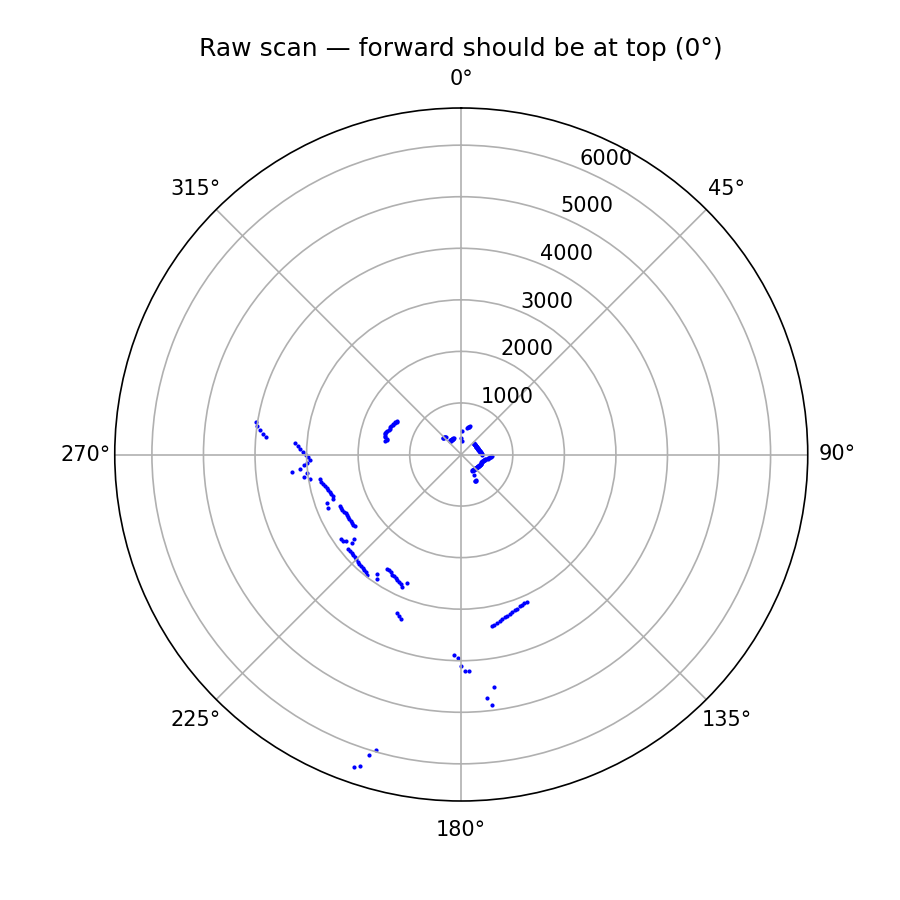
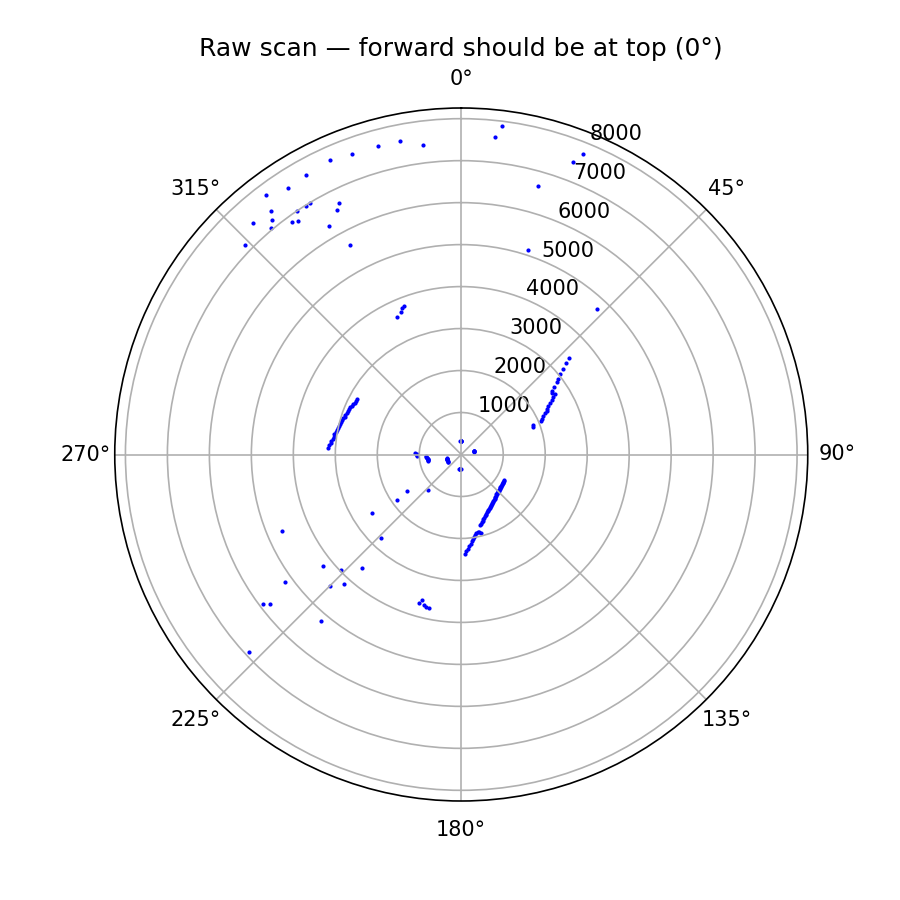
SLAM. done, testing

diff --git a/SLAM/code/slam_worker.py b/SLAM/code/slam_worker.py
@@ -1,5 +1,7 @@
 #!/usr/bin/env python3
 from __future__ import annotations
+import json
+import math
 import struct
 import threading
 from collections import deque
@@ -9,104 +11,104 @@ import numpy as np
 import paho.mqtt.client as mqtt
 from breezyslam.algorithms import RMHC_SLAM
 from breezyslam.sensors import Laser
-from config import MQTT_HOST, MQTT_PORT, TOPIC_LIDAR
+from config import (
+    MQTT_HOST, MQTT_PORT,
+    TOPIC_LIDAR, TOPIC_ENCODER,
+    REVERSE_SCAN,
+    WHEEL_DIAMETER_MM, WHEELBASE_MM, ENCODER_TICKS_PER_REV,
+)
+from slam_parser import parse_scan
 
 MAP_SIZE_PIXELS = 800
 MAP_SIZE_METERS = 20
 SCAN_SIZE       = 360
 SCAN_RATE_HZ    = 10
-MAX_RANGE_MM = 8000  
 
-# Tune these for your physical lidar mounting:
-ANGLE_OFFSET_DEG = 0     # rotate scan so index-0 = robot forward
-FLIP_SCAN        = True  # True if lidar sweeps CCW (YDLidar G2 does)
+# mm travelled per encoder tick (one side)
+_MM_PER_TICK = math.pi * WHEEL_DIAMETER_MM / ENCODER_TICKS_PER_REV
 
-MAGIC       = b"SCN3"
-HEADER_FMT  = "<4sIIH"
-HEADER_SIZE = struct.calcsize(HEADER_FMT)   # 14
-BINS_FMT    = "<360H"
-BINS_SIZE   = struct.calcsize(BINS_FMT)     # 720
-FRAME_SIZE  = HEADER_SIZE + BINS_SIZE       # 734
+# ---- shared state (MQTT thread → animation thread) ----
 
-NO_DETECTION_MM = 0  # single source of truth
-
-_lock = threading.Lock()
+_scan_lock = threading.Lock()
 _pending_scans: deque[tuple[int, int, list[int]]] = deque(maxlen=20)
+
+_enc_lock   = threading.Lock()
+_enc_latest: dict | None = None   # latest {"ts_ms", "left_ticks", "right_ticks"}
+
 _stats = {"received": 0, "bad": 0, "used": 0, "seq_last": -1}
 _debug_done = False
 
-def decode_frame(payload: bytes) -> tuple[int, int, list[int]] | None:
-    if len(payload) != FRAME_SIZE:
-        _stats["bad"] += 1
-        return None
-
-    magic, seq, ts_ms, valid_bins = struct.unpack_from(HEADER_FMT, payload, 0)
-    if magic != MAGIC:
-        _stats["bad"] += 1
-        return None
-
-    bins = list(struct.unpack_from(BINS_FMT, payload, HEADER_SIZE))
-
-    # Rotate so 0-index aligns with robot forward
-    if ANGLE_OFFSET_DEG:
-        bins = bins[ANGLE_OFFSET_DEG:] + bins[:ANGLE_OFFSET_DEG]
-
-    # Convert CCW → CW for BreezySLAM
-    if FLIP_SCAN:
-        bins = bins[::-1]
-
-    # Use 0 for no-return — NOT max range (0 = "no data" in BreezySLAM)
-    scan = [mm if 0 < mm <= MAX_RANGE_MM else NO_DETECTION_MM for mm in bins]
-
-    _stats["received"] += 1
-    _stats["seq_last"] = seq
-    return seq, ts_ms, scan
 
 def debug_polar_plot(scan: list[int]):
-    """Call this once to verify scan orientation before running SLAM."""
-
     angles = np.deg2rad(np.arange(360))
     ranges = np.array(scan, dtype=float)
-    # zero out no-data for cleaner plot
     ranges[ranges == 0] = np.nan
-
     fig, ax = plt.subplots(subplot_kw={"projection": "polar"}, figsize=(6, 6))
     ax.scatter(angles, ranges, s=1, c="blue")
-    ax.set_theta_zero_location("N")   # 0° = top = robot forward
-    ax.set_theta_direction(-1)         # clockwise
+    ax.set_theta_zero_location("N")
+    ax.set_theta_direction(-1)   # CW, matching G2 native direction
     ax.set_title("Raw scan — forward should be at top (0°)")
     plt.savefig("scan_debug.png", dpi=150)
     plt.close()
-    print("[debug] scan_debug.png written")
+    print("[debug] scan_debug.png written — check that forward is at the top")
 
 
 def on_connect(client, userdata, flags, reason_code, properties=None):
-    print(f"[mqtt] connected → subscribing to {TOPIC_LIDAR}")
-    client.subscribe(TOPIC_LIDAR, qos=0)
+    print(f"[mqtt] connected → {TOPIC_LIDAR}, {TOPIC_ENCODER}")
+    client.subscribe(TOPIC_LIDAR,   qos=0)
+    client.subscribe(TOPIC_ENCODER, qos=0)
 
 
 def on_message(client, userdata, msg):
     global _debug_done
-    decoded = decode_frame(bytes(msg.payload))
-    if decoded is None:
+
+    if msg.topic == TOPIC_ENCODER:
+        try:
+            data = json.loads(msg.payload)
+            with _enc_lock:
+                global _enc_latest
+                _enc_latest = data
+        except Exception:
+            pass
         return
+
+    # lidar
+    try:
+        parsed = parse_scan(bytes(msg.payload), reverse_scan=REVERSE_SCAN)
+    except ValueError:
+        _stats["bad"] += 1
+        return
+    if parsed is None:
+        return
+
     if not _debug_done:
-        debug_polar_plot(decoded[2])
+        debug_polar_plot(parsed.distances_mm)
         _debug_done = True
-    with _lock:
-        _pending_scans.append(decoded)
+
+    _stats["received"] += 1
+    _stats["seq_last"] = parsed.seq
+    with _scan_lock:
+        _pending_scans.append((parsed.seq, parsed.ts_robot_ms, parsed.distances_mm))
 
 
 def main():
     laser = Laser(
-        SCAN_SIZE,        # 360
-        SCAN_RATE_HZ,     # 10
-        360,              # detection angle
-        NO_DETECTION_MM,  # must match fill value below
-        0,                # detection margin
-        0.0,              # offset mm
+        SCAN_SIZE,
+        SCAN_RATE_HZ,
+        360,   # detection angle
+        0,     # no-detection value (parse_scan interpolates, so no blanks)
+        0,
+        0.0,
     )
-    slam = RMHC_SLAM(laser, MAP_SIZE_PIXELS, MAP_SIZE_METERS)
+    slam = RMHC_SLAM(
+        laser,
+        MAP_SIZE_PIXELS,
+        MAP_SIZE_METERS,
+        random_seed=0xabcd,
+        max_search_iter=2000,
+        sigma_xy_mm=200,
+        sigma_theta_degrees=30,
+    )
     mapbytes = bytearray(MAP_SIZE_PIXELS * MAP_SIZE_PIXELS)
 
     client = mqtt.Client(mqtt.CallbackAPIVersion.VERSION2, client_id="slam_worker_r1")
@@ -119,22 +121,46 @@ def main():
     fig, ax = plt.subplots(figsize=(7, 7))
     img_handle = ax.imshow(
         np.zeros((MAP_SIZE_PIXELS, MAP_SIZE_PIXELS), dtype=np.uint8),
-        cmap="gray", vmin=0, vmax=255, origin="upper",
+        cmap="gray", vmin=0, vmax=255,
+        origin="lower",   # row 0 = bottom of image = y=0 in BreezySLAM coords
     )
     title = ax.set_title("waiting for scans…")
     plt.tight_layout()
 
+    enc_at_last_slam: dict | None = None
+
     def update(_frame):
-        # Drain queue, keep only the newest scan
+        nonlocal enc_at_last_slam
         scan_item = None
-        with _lock:
+        with _scan_lock:
             while _pending_scans:
                 scan_item = _pending_scans.popleft()
         if scan_item is None:
             return (img_handle,)
 
         seq, ts_ms, scan = scan_item
-        slam.update(scan)
+
+        with _enc_lock:
+            curr_enc = _enc_latest  # snapshot under lock
+
+        velocities = None
+        if curr_enc is not None and enc_at_last_slam is not None:
+            dL_ticks = curr_enc["left_ticks"]  - enc_at_last_slam["left_ticks"]
+            dR_ticks = curr_enc["right_ticks"] - enc_at_last_slam["right_ticks"]
+            dt_ms    = curr_enc["ts_ms"]       - enc_at_last_slam["ts_ms"]
+            if dt_ms > 0:
+                dL_mm      = dL_ticks * _MM_PER_TICK
+                dR_mm      = dR_ticks * _MM_PER_TICK
+                dxy_mm     = (dL_mm + dR_mm) / 2.0
+                dtheta_deg = (dR_mm - dL_mm) / WHEELBASE_MM * (180.0 / math.pi)
+                velocities = (dxy_mm, dtheta_deg, dt_ms / 1000.0)
+
+        enc_at_last_slam = curr_enc
+
+        if velocities is not None:
+            slam.update(scan, velocities)
+        else:
+            slam.update(scan)
         _stats["used"] += 1
 
         x, y, theta = slam.getpos()
@@ -144,9 +170,8 @@ def main():
         )
         img_handle.set_data(mapimg)
         title.set_text(
-            f"used={_stats['used']}  rx={_stats['received']}  "
-            f"bad={_stats['bad']}  seq={seq}  "
-            f"x={x:.1f} y={y:.1f} θ={theta:.1f}°"
+            f"used={_stats['used']}  rx={_stats['received']}  bad={_stats['bad']}  "
+            f"seq={seq}  x={x:.0f} y={y:.0f} θ={theta:.1f}°"
         )
         return (img_handle,)
 

diff --git a/SLAM/code/config_defaults.py b/SLAM/code/config_defaults.py
@@ -23,8 +23,26 @@ TOPIC_DONE = f"robot/{ROBOT_ID}/evt/done"
 TOPIC_ACK = f"robot/{ROBOT_ID}/evt/ack"
 
 TOPIC_TELEMETRY = f"robot/{ROBOT_ID}/telemetry"
-TOPIC_LIDAR = f"robot/{ROBOT_ID}/lidar"
-TOPIC_POSE = f"robot/{ROBOT_ID}/slam/pose"
-TOPIC_STATUS = f"robot/{ROBOT_ID}/slam/status"
+TOPIC_LIDAR     = f"robot/{ROBOT_ID}/lidar"
+TOPIC_ENCODER   = f"robot/{ROBOT_ID}/encoder"
+TOPIC_POSE      = f"robot/{ROBOT_ID}/slam/pose"
+TOPIC_STATUS    = f"robot/{ROBOT_ID}/slam/status"
+
+# Bins (0–359) for fixed mounting posts to exclude from scans.
+# Each entry: (center_bin, half_width_bins). Fill in after a calibration run.
+POST_EXCLUSION_ZONES = []  # e.g. [(45, 5), (135, 5), (225, 5), (315, 5)]
+
+# YDLidar G2 rotates clockwise (CW). BreezySLAM expects CCW, so we reverse.
+# If the map appears left-right mirrored set False in config_local.py.
+REVERSE_SCAN = True
+
+# Physical robot parameters — needed to compute odometry from encoder ticks.
+# Measure these and override in config_local.py if the defaults are off.
+#   WHEEL_DIAMETER_MM:      outer diameter of the drive wheel in mm
+#   WHEELBASE_MM:           distance between left/right wheel contact patches in mm
+#   ENCODER_TICKS_PER_REV:  quadrature ticks per wheel revolution (PPR × 4)
+WHEEL_DIAMETER_MM      = 96.0
+WHEELBASE_MM           = 480.0
+ENCODER_TICKS_PER_REV  = 760.0    
 
 

diff --git a/SLAM/code/slam_parser.py b/SLAM/code/slam_parser.py
@@ -52,7 +52,15 @@ def _fill_gaps(distances_mm: List[int]) -> Optional[List[int]]:
     return interp.astype(int).tolist()
 
 
-def parse_scan(payload: bytes, reverse_scan: bool = True) -> Optional[ParsedScan]:
+def _apply_exclusions(distances: list, zones: list) -> list:
+    out = list(distances)
+    for center, half_width in zones:
+        for offset in range(-half_width, half_width + 1):
+            out[(center + offset) % SCAN_BINS] = 0
+    return out
+
+
+def parse_scan(payload: bytes, reverse_scan: bool = True, exclusion_zones: list = None) -> Optional[ParsedScan]:
     if len(payload) != 4 + 4 + 4 + 2 + 360 * 2:
         raise ValueError(f"SCN3: expected 734 bytes, got {len(payload)}")
 
@@ -63,6 +71,9 @@ def parse_scan(payload: bytes, reverse_scan: bool = True) -> Optional[ParsedScan
     ts_robot_ms = struct.unpack_from("<I", payload, 8)[0]
     reported_valid = struct.unpack_from("<H", payload, 12)[0]
     distances = list(struct.unpack_from("<360H", payload, 14))
+
+    if exclusion_zones:
+        distances = _apply_exclusions(distances, exclusion_zones)
 
     filled = _fill_gaps(distances)
     if filled is None:
